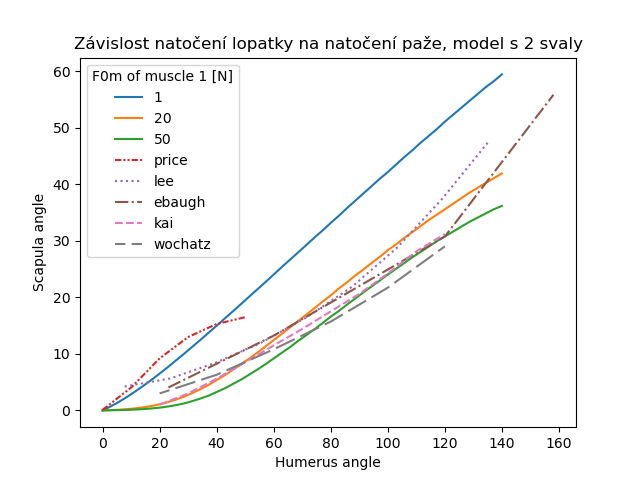
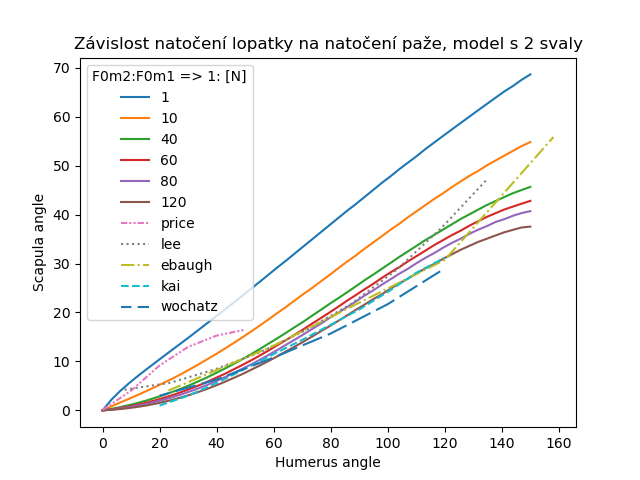
physio coords

diff --git a/classes3_rotation_middle_scap.py b/classes3_rotation_middle_scap.py
@@ -96,7 +96,7 @@ class SCHR:
     
     def scapula_position(self,U_celk):
         alfa_start = 0
-        alfa_end = 140*np.pi/180
+        alfa_end = 150*np.pi/180
         N_alfa = 1000
         alfa_vec = np.linspace(alfa_start,alfa_end)
         N_phis = 1000
